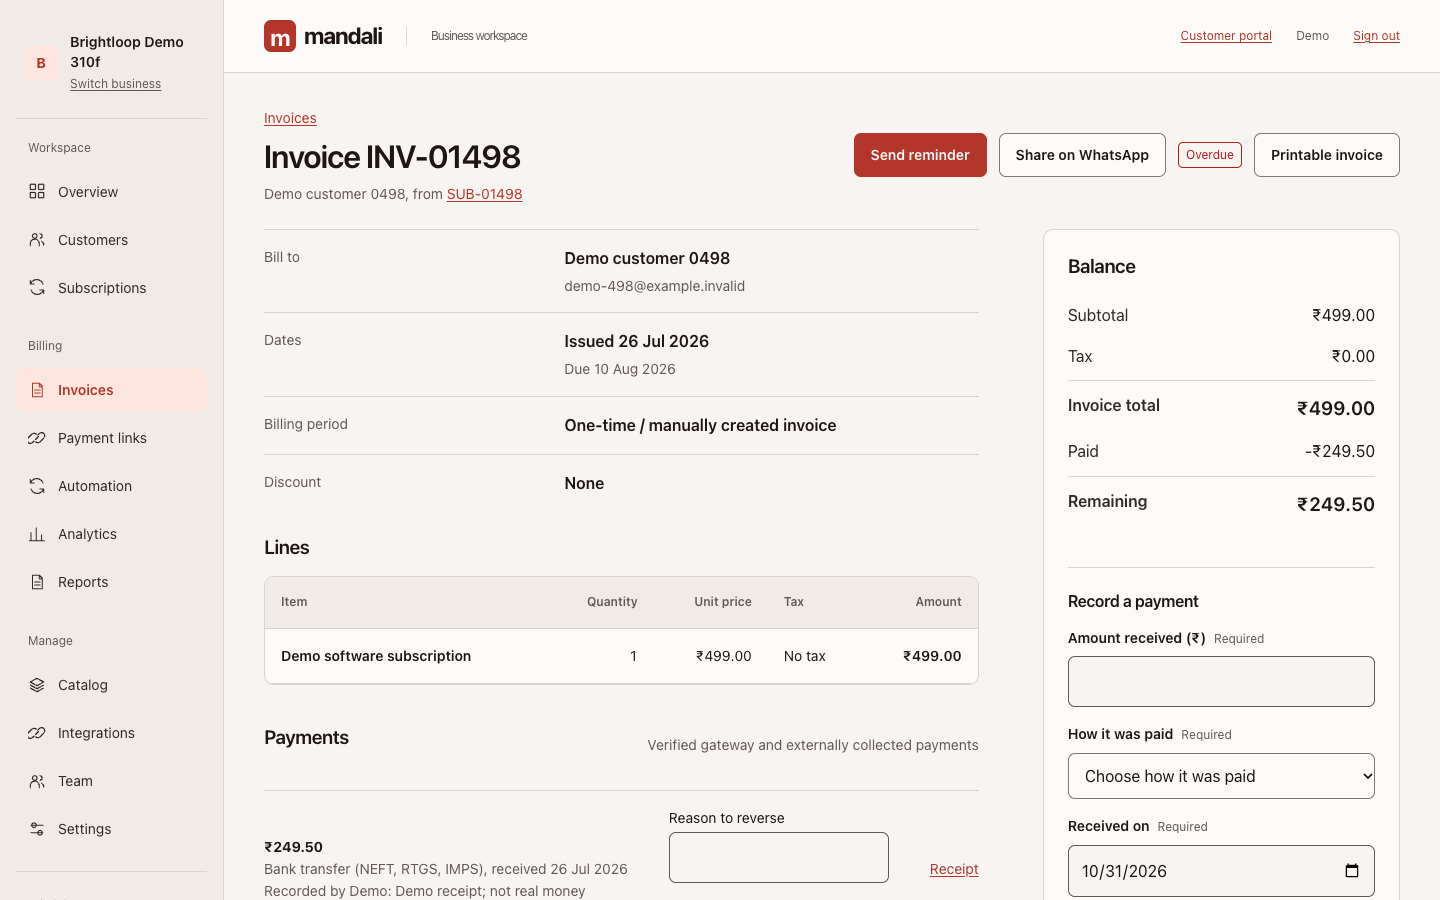
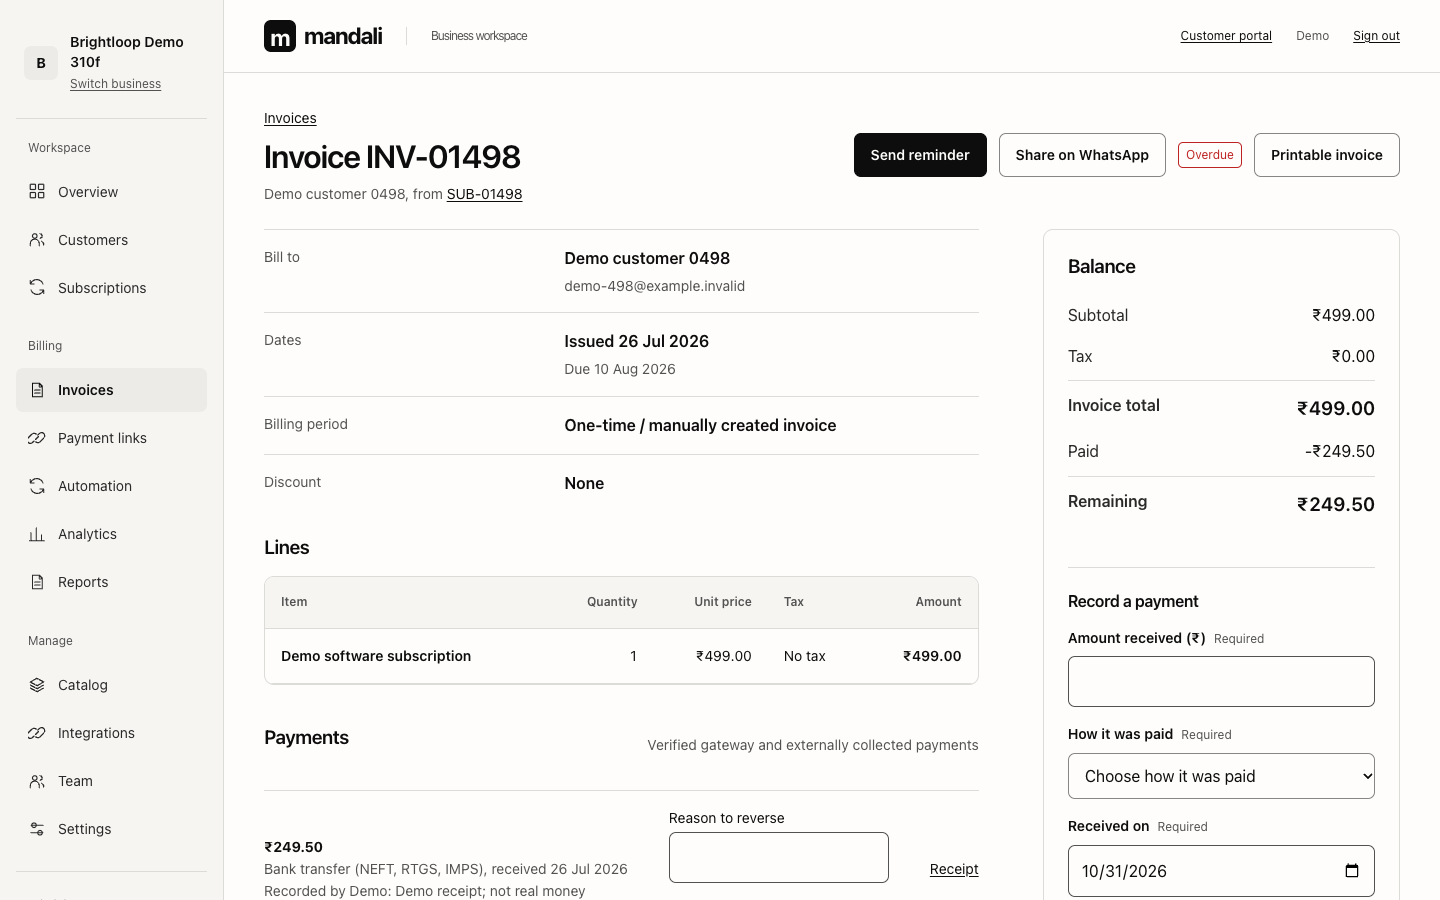
style: switch to Hallmark's Ink theme
White paper and hueless black for every action, with one teal reserved
for money in: paid and active statuses and current collections. Refresh
the README screenshots to match.

diff --git a/static/core/tokens.css b/static/core/tokens.css
@@ -5,21 +5,22 @@
   --text-display-s: 1.44rem; --text-display: 1.728rem; --text-section: 1.2rem; --text-title: 1rem; --text-lead: 1rem;
   --ease-out: cubic-bezier(0.16, 1, 0.3, 1); --ease-in: cubic-bezier(0.7, 0, 0.84, 0); --ease-in-out: cubic-bezier(0.65, 0, 0.35, 1);
   --dur-micro: 120ms; --dur-short: 220ms; --dur-long: 420ms;
-  --color-error: oklch(50% 0.19 27); --color-success: oklch(48% 0.12 150);
+  --color-error: oklch(52% 0.19 27); --color-success: oklch(50% 0.12 150);
   --container: 1248px; --gutter: 48px; --gap-columns: 32px; --section-gap-s: 120px; --section-gap: 144px; --section-gap-l: 176px;
   --z-base: 1; --z-raised: 10; --z-dropdown: 100; --z-sticky: 200; --z-sticky-nav: 300; --z-modal: 400; --z-toast: 500; --z-tooltip: 600;
-  --color-paper: oklch(97% 0.006 55); --color-paper-2: oklch(98.8% 0.0045 80); --color-paper-3: oklch(91.5% 0.009 55);
-  --color-ink: oklch(21% 0.012 38); --color-ink-2: oklch(29% 0.013 40); --color-muted: oklch(47% 0.013 45);
-  --color-rule: oklch(87% 0.009 55);
-  --color-accent: oklch(52% 0.165 29); --color-accent-deep: oklch(45% 0.15 29); --color-accent-soft: oklch(94% 0.03 35); --color-accent-ink: oklch(99% 0.003 80);
-  --color-focus: oklch(54% 0.17 30);
+  --color-paper: oklch(99.5% 0.003 100); --color-paper-2: oklch(97% 0.004 100); --color-paper-3: oklch(94% 0.006 100);
+  --color-ink: oklch(16% 0 0); --color-ink-2: oklch(28% 0 0); --color-muted: oklch(44% 0 0);
+  --color-rule: oklch(89% 0.004 100);
+  --color-accent: oklch(16% 0 0); --color-accent-deep: oklch(28% 0 0); --color-accent-soft: oklch(94% 0.006 100); --color-accent-ink: oklch(99.5% 0.003 100);
+  --color-focus: oklch(50% 0.095 188);
   --p-mon: oklch(85% 0.052 22); --p-tue: oklch(87.5% 0.058 64); --p-wed: oklch(91.5% 0.064 98); --p-thu: oklch(86.5% 0.075 160);
   --p-fri: oklch(87% 0.048 210); --p-sat: oklch(84% 0.045 270); --p-sun: oklch(84% 0.048 322);
   --light: oklch(99.4% 0.016 84); --glint: oklch(100% 0 0);
-  --font-display: var(--font-body); --font-body: "General Sans", -apple-system, BlinkMacSystemFont, "Segoe UI", system-ui, sans-serif;
-  --font-outlier: "Geist Mono", ui-monospace, monospace;
+  --font-display: var(--font-body); --font-body: "Epilogue", -apple-system, BlinkMacSystemFont, "Segoe UI", system-ui, sans-serif;
+  --font-outlier: "IBM Plex Mono", ui-monospace, monospace;
   --radius-card: 14px; --radius-input: 8px; --radius-pill: 999px; --rule-hair: 1px;
-  --shadow-card: 0 1px 2px oklch(20% 0.01 35 / 0.08), 0 24px 48px -24px oklch(30% 0.03 35 / 0.35);
-  --shadow-lift: 0 1px 1px oklch(20% 0.01 35 / 0.10), 8px 18px 28px -14px oklch(28% 0.03 35 / 0.32), 18px 40px 60px -30px oklch(30% 0.03 35 / 0.30);
+  --shadow-card: 0 1px 2px oklch(20% 0 0 / 0.08), 0 24px 48px -24px oklch(30% 0 0 / 0.35);
+  --shadow-lift: 0 1px 1px oklch(20% 0 0 / 0.10), 8px 18px 28px -14px oklch(28% 0 0 / 0.32), 18px 40px 60px -30px oklch(30% 0 0 / 0.30);
   --tracking-display: -0.025em; --display-weight: 700;
+  --color-in: oklch(50% 0.095 188); --color-in-soft: oklch(93% 0.05 190); --color-in-ink: oklch(27% 0.045 190);
 }

diff --git a/static/core/workspace.css b/static/core/workspace.css
@@ -1,28 +1,28 @@
-/* Hallmark · shape: app screen · genre: modern-minimal · theme: Coral (deal 1/3, seed mandali-india-first-subscription-billing-2de6·18ef95d0·2026-10-31·r0) · redesign: palette
+/* Hallmark · shape: app screen · genre: modern-minimal · theme: Ink (by request) · redesign: palette
  * nav: grouped workspace sidebar and native mobile menu · footer: product utility line
  * signature: collections chart beside the overdue invoice queue · states: empty, error, full, submitting
- * axes: light/grotesk-sans/warm · posture: restrained · data: actual records; demo captures use sample data · v2.0.0 */
+ * axes: light/grotesk-sans/neutral · posture: restrained · data: actual records; demo captures use sample data · v2.0.0 */
 /* Hallmark · pre-emit critique: P4 H4 E4 S4 R5 V4 · weakest: H, separated billing work from settings and made the collection queue lead */
 :root {
-  --color-shell: oklch(94.3% 0.008 64);
-  --color-surface: oklch(98.8% 0.0045 80);
-  --color-hover: oklch(94.5% 0.007 55);
-  --color-chart: oklch(82% 0.07 32);
-  --color-chart-current: oklch(54% 0.165 29);
-  --color-rule-soft: oklch(91.5% 0.009 55);
-  --color-control-border: oklch(58% 0.013 45);
-  --color-ink: oklch(21% 0.012 38);
-  --color-ink-2: oklch(29% 0.013 40);
-  --color-muted: oklch(47% 0.013 45);
-  --color-rule: oklch(87% 0.009 55);
-  --color-accent: oklch(52% 0.165 29);
-  --color-accent-deep: oklch(45% 0.15 29);
-  --color-accent-soft: oklch(94% 0.03 35);
-  --color-accent-ink: oklch(99% 0.003 80);
-  --color-focus: oklch(54% 0.17 30);
-  --color-paper: oklch(97% 0.006 55);
-  --color-paper-2: oklch(98.8% 0.0045 80);
-  --font-body: "General Sans", -apple-system, BlinkMacSystemFont, "Segoe UI", system-ui, sans-serif;
+  --color-shell: oklch(97% 0.004 100);
+  --color-surface: oklch(99.5% 0.003 100);
+  --color-hover: oklch(95.5% 0.004 100);
+  --color-chart: oklch(86% 0.06 190);
+  --color-chart-current: oklch(50% 0.095 188);
+  --color-rule-soft: oklch(93.5% 0.003 100);
+  --color-control-border: oklch(62% 0 0);
+  --color-ink: oklch(16% 0 0);
+  --color-ink-2: oklch(28% 0 0);
+  --color-muted: oklch(44% 0 0);
+  --color-rule: oklch(89% 0.004 100);
+  --color-accent: oklch(16% 0 0);
+  --color-accent-deep: oklch(28% 0 0);
+  --color-accent-soft: oklch(94% 0.006 100);
+  --color-accent-ink: oklch(99.5% 0.003 100);
+  --color-focus: oklch(50% 0.095 188);
+  --color-paper: oklch(99.5% 0.003 100);
+  --color-paper-2: oklch(97% 0.004 100);
+  --font-body: "Epilogue", -apple-system, BlinkMacSystemFont, "Segoe UI", system-ui, sans-serif;
   --font-display: var(--font-body);
   --text-display: 2rem;
   --text-section: 1.2rem;
@@ -36,6 +36,7 @@
   --radius-card: 10px;
   --radius-input: 7px;
   --shadow-card: none;
+  --color-in: oklch(50% 0.095 188); --color-in-soft: oklch(93% 0.05 190); --color-in-ink: oklch(27% 0.045 190);
 }
 body { background: var(--color-paper); font-family: var(--font-body); }
 .workspace-shell { padding-left: 224px; }

diff --git a/static/core/app.css b/static/core/app.css
@@ -1,6 +1,6 @@
-/* Hallmark · shape: app screen · genre: modern-minimal · theme: Coral, warm paper with a coral accent (dealt 1/3)
+/* Hallmark · shape: app screen · genre: modern-minimal · theme: Ink (by request), black working colour and one teal for money in
  * nav: top bar and workspace tabs, catalog and filter subtabs · signature: workspace essentials ledger; invoice balance ledger; sync preview · states: empty, error, full, submitting, draft, issued, overdue, paid, cancelled
- * axes: light/grotesk-sans/warm · posture: restrained · dose: white, no imagery or decorative motion · v2.0.0 */
+ * axes: light/grotesk-sans/neutral · posture: restrained · dose: white, no imagery or decorative motion · v2.0.0 */
 /* Hallmark · finish-review: subagent, ship; mobile member rows refined after review. Login sweep: 0 FAIL, 0 REFLEX, 0 WARN. Part 2 billing sweep, 17 screens: 0 FAIL, 0 REFLEX, 0 WARN. Part 4 sweep, 26 screens: 0 FAIL, 0 REFLEX, 0 WARN. Part 6 sweep, 32 screens: 0 FAIL, 0 REFLEX, 0 WARN. Part 7 sweep, 43 screens: 0 FAIL, 0 WARN, 3 waived. */
 /* Hallmark · pre-emit critique: P4 H4 E4 S4 R5 V4 · weakest: S, kept business settings and access as the screen's substance */
 /* Hallmark · waive 49b · first table cells keep overflow-wrap: anywhere · customer names are real data and must wrap rather than overflow at 320px */
@@ -333,3 +333,8 @@ section > h2 + .stat-row { margin-top: var(--space-md); }
 /* Coral pass: one-line text actions; the balance ledger reads as the signature panel. */
 .text-button { white-space: nowrap; }
 .ledger { border-top: 3px solid var(--color-accent); }
+/* Ink: black does the work; teal means money in (paid, active, collected). */
+.tag.status-active, .tag.status-paid { background: var(--color-in-soft); color: var(--color-in-ink); }
+.ledger { border-top-color: var(--color-ink); }
+.stat-row dd, .ledger .ledger-total dd { font-variant-numeric: tabular-nums; }
+

diff --git a/static/checkout/checkout.css b/static/checkout/checkout.css
@@ -1,4 +1,4 @@
-/* Hallmark · shape: app screen · genre: modern-minimal · theme: Coral, shared tokens
+/* Hallmark · shape: app screen · genre: modern-minimal · theme: Ink, shared tokens
  * signature: scoped invoice ledger beside buyer details · states: empty, error, pending, verified, unavailable · v2.0.0 */
 /* critique: preserve the existing ledger hierarchy; keep test status visible beside the amount. */
 .checkout-grid :is(a, button, input, textarea):focus-visible { outline: 3px solid var(--color-focus); outline-offset: 3px; }

diff --git a/docs/DESIGN.md b/docs/DESIGN.md
@@ -53,6 +53,6 @@ Applied nutlope/hallmark v2.0.0 at revision `4f6a46c6dc325d40ab268c93e25c7b96676
 
 Before/after review used locally rendered Django pages with sample data. Thirty desktop/mobile captures cover Overview, Analytics, Reports, invoice, quotation form and login. The kept-content comparison preserves 31/31 links, 16/16 original fields, 5/5 script hooks and 8/8 figures; the new form fields are additive. Dynamic CSRF values were normalized only in review snapshots. Three intentionally changed headings replace the old workspace title and placeholder sections; the workspace name remains in navigation.
 
-Current captures in the Coral theme: [overview](screenshots/app-overview.png), [mobile overview](screenshots/app-overview-mobile.png), [invoice](screenshots/app-invoice.png), and [analytics](screenshots/app-analytics.png).
+Current captures in Hallmark's Ink theme (white paper, hueless black for actions, one teal reserved for money in): [overview](screenshots/app-overview.png), [mobile overview](screenshots/app-overview-mobile.png), [invoice](screenshots/app-invoice.png), and [analytics](screenshots/app-analytics.png).
 
 The final source/render audit has 0 FAIL and 0 REFLEX findings. Retained warnings concern inherited CSS recipes (the old mark contrast and shared box/button rules, overridden by the new workspace stylesheet), an existing prose apostrophe, and the three intentional heading changes. Two inherited hidden-content measurement findings are waived by the tool: the closed tracking disclosure and invoice credit-note disclosure. These were visually reviewed rather than changing their working interactions. Review was performed in-thread without subagents.
